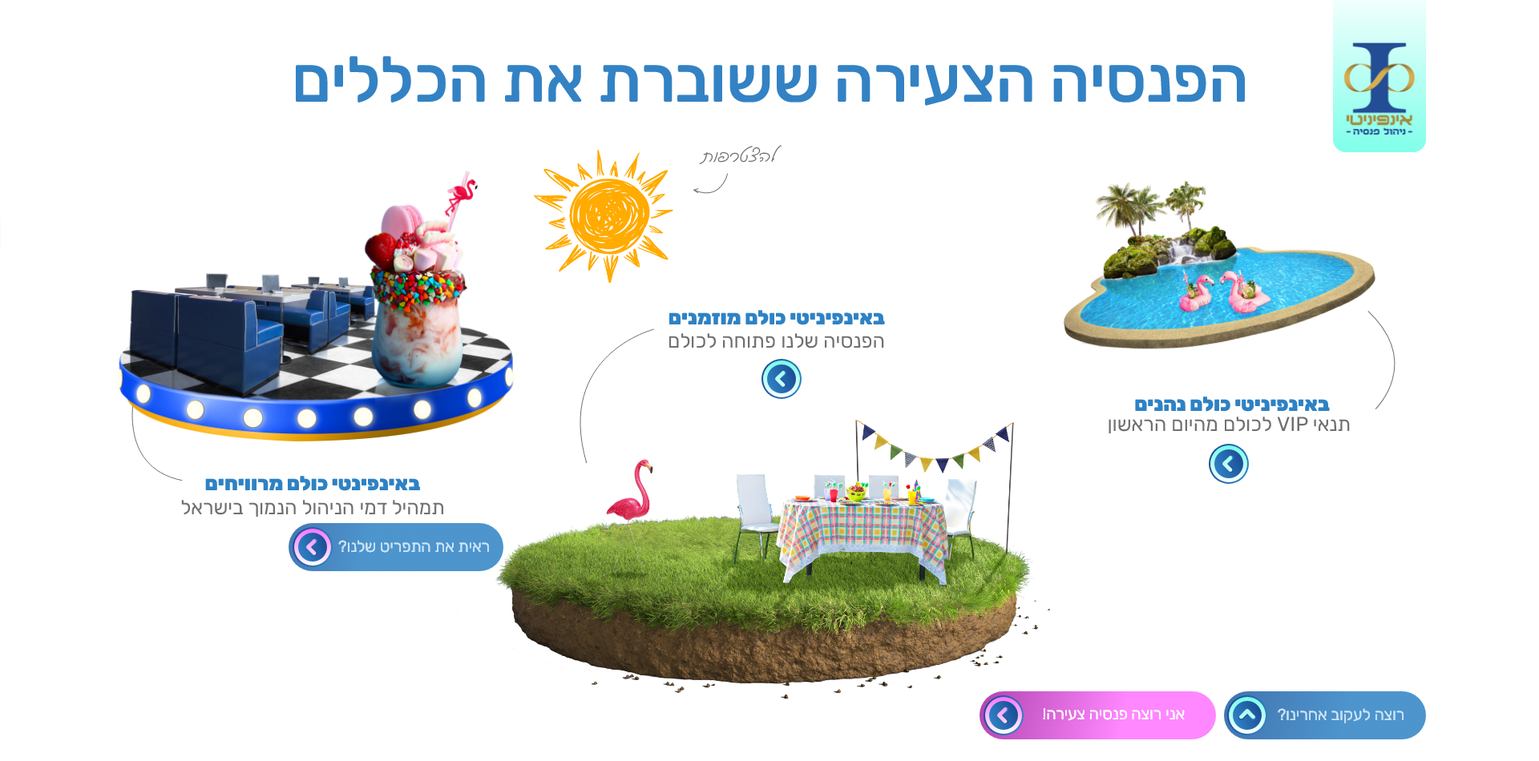
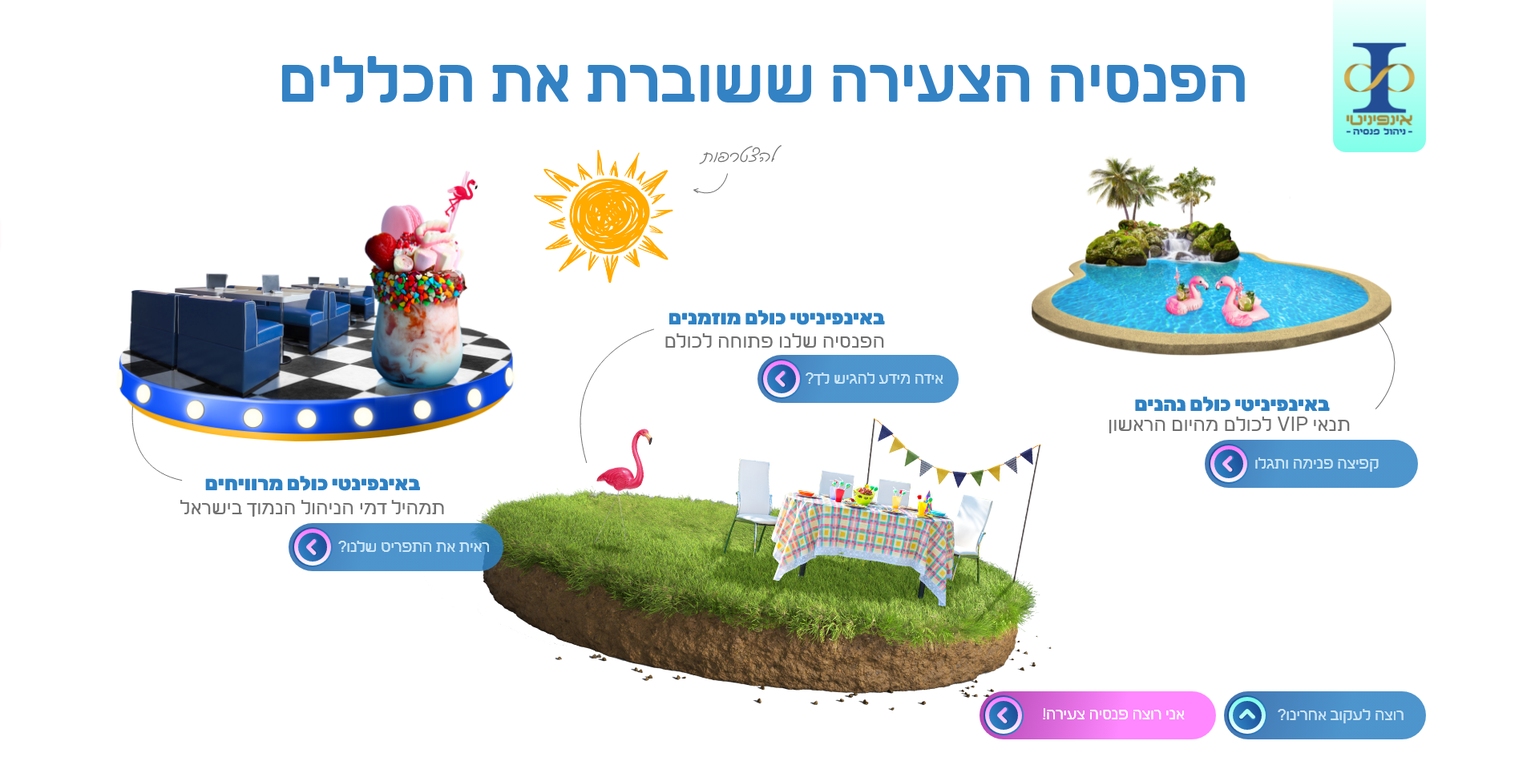
note

diff --git a/dist/css/main.min.css b/dist/css/main.min.css
@@ -1,1 +1,1 @@
-@font-face{font-family:FbBegale-Regular;font-weight:400;src:url(../fonts/fb/FbBegale-Regular.otf) format("opentype")}.anim{-webkit-animation-fill-mode:forwards!important;animation-fill-mode:forwards!important;opacity:0;-webkit-transition:all .4s ease;-o-transition:all .4s ease;transition:all .4s ease}.anim.single-project{-webkit-transition:all .4s ease;-o-transition:all .4s ease;transition:all .4s ease}.anim.single-project.done{opacity:1!important}.anim-stage>*{-webkit-animation-fill-mode:forwards!important;animation-fill-mode:forwards!important;opacity:0}@-webkit-keyframes zoom{0%{-webkit-transform:scale(1.1);transform:scale(1.1)}100%{-webkit-transform:scale(1);transform:scale(1);opacity:1;color:#00f5c9}}@keyframes zoom{0%{-webkit-transform:scale(1.1);transform:scale(1.1)}100%{-webkit-transform:scale(1);transform:scale(1);opacity:1;color:#00f5c9}}@-webkit-keyframes zoom-fade{from{-webkit-transform:scale(1.1);transform:scale(1.1)}to{-webkit-transform:scale(1);transform:scale(1);opacity:1}}@keyframes zoom-fade{from{-webkit-transform:scale(1.1);transform:scale(1.1)}to{-webkit-transform:scale(1);transform:scale(1);opacity:1}}@-webkit-keyframes line{0%{width:0;opacity:0}100%{width:510px;opacity:1}}@keyframes line{0%{width:0;opacity:0}100%{width:510px;opacity:1}}@-webkit-keyframes rotate{0%{-webkit-transform:rotate(0);transform:rotate(0)}70%{-webkit-transform:rotate(300deg);transform:rotate(300deg)}100%{-webkit-transform:rotate(360deg);transform:rotate(360deg);opacity:1}}@keyframes rotate{0%{-webkit-transform:rotate(0);transform:rotate(0)}70%{-webkit-transform:rotate(300deg);transform:rotate(300deg)}100%{-webkit-transform:rotate(360deg);transform:rotate(360deg);opacity:1}}@-webkit-keyframes slide{to{width:100%;opacity:1}}@keyframes slide{to{width:100%;opacity:1}}@-webkit-keyframes slide-height{from{opacity:1}to{height:100%;opacity:1}}@keyframes slide-height{from{opacity:1}to{height:100%;opacity:1}}@-webkit-keyframes fade{to{opacity:1}}@keyframes fade{to{opacity:1}}@-webkit-keyframes fade-left{from{-webkit-transform:translateX(-100%);transform:translateX(-100%)}to{opacity:1;-webkit-transform:translateX(0);transform:translateX(0)}}@keyframes fade-left{from{-webkit-transform:translateX(-100%);transform:translateX(-100%)}to{opacity:1;-webkit-transform:translateX(0);transform:translateX(0)}}@-webkit-keyframes fade-right{from{-webkit-transform:translateX(100%);transform:translateX(100%)}to{opacity:1;-webkit-transform:translateX(0);transform:translateX(0)}}@keyframes fade-right{from{-webkit-transform:translateX(100%);transform:translateX(100%)}to{opacity:1;-webkit-transform:translateX(0);transform:translateX(0)}}@-webkit-keyframes fade-up{from{-webkit-transform:translateY(10%);transform:translateY(10%)}to{opacity:1;-webkit-transform:translateY(0);transform:translateY(0)}}@keyframes fade-up{from{-webkit-transform:translateY(10%);transform:translateY(10%)}to{opacity:1;-webkit-transform:translateY(0);transform:translateY(0)}}.anim-stage>*{-webkit-transform-origin:0 0;-ms-transform-origin:0 0;transform-origin:0 0}@-webkit-keyframes anim-stage{from{opacity:0;-webkit-transform:translateY(60px);transform:translateY(60px)}to{opacity:1;-webkit-transform:translateY(0);transform:translateY(0)}}@keyframes anim-stage{from{opacity:0;-webkit-transform:translateY(60px);transform:translateY(60px)}to{opacity:1;-webkit-transform:translateY(0);transform:translateY(0)}}@-webkit-keyframes fade-up-2{from{-webkit-transform:translateY(20%);transform:translateY(20%)}to{opacity:1;-webkit-transform:translateY(0);transform:translateY(0)}}@keyframes fade-up-2{from{-webkit-transform:translateY(20%);transform:translateY(20%)}to{opacity:1;-webkit-transform:translateY(0);transform:translateY(0)}}@-webkit-keyframes fade-up-3{0%{-webkit-transform:translateY(100%);transform:translateY(100%);opacity:0}50%{opacity:0}100%{opacity:1;-webkit-transform:translateY(0);transform:translateY(0)}}@keyframes fade-up-3{0%{-webkit-transform:translateY(100%);transform:translateY(100%);opacity:0}50%{opacity:0}100%{opacity:1;-webkit-transform:translateY(0);transform:translateY(0)}}@-webkit-keyframes fade-down{from{-webkit-transform:translateY(-100%);transform:translateY(-100%)}to{opacity:1;-webkit-transform:translateY(0);transform:translateY(0)}}@keyframes fade-down{from{-webkit-transform:translateY(-100%);transform:translateY(-100%)}to{opacity:1;-webkit-transform:translateY(0);transform:translateY(0)}}@media screen and (max-width:991px){.anim-stage>*{opacity:1}@-webkit-keyframes line{0%{width:0;opacity:0}100%{width:247px;opacity:1}}@keyframes line{0%{width:0;opacity:0}100%{width:247px;opacity:1}}@-webkit-keyframes circleShadow{0%{width:11px;height:11px}100%{width:50px;height:50px}}@keyframes circleShadow{0%{width:11px;height:11px}100%{width:50px;height:50px}}}@media screen and (max-width:575px){@-webkit-keyframes line{0%{width:0;opacity:0}100%{width:150px;opacity:1}}@keyframes line{0%{width:0;opacity:0}100%{width:150px;opacity:1}}}body,html{margin:0;font-family:Rubik,sans-serif;min-width:320px;direction:rtl}body{max-width:100%}body.fixed{position:fixed}*{letter-spacing:0}input[type=search]::-webkit-search-cancel-button,input[type=search]::-webkit-search-decoration,input[type=search]::-webkit-search-results-button,input[type=search]::-webkit-search-results-decoration{display:none}img.lazyload,video.lazyload{opacity:0;visibility:hidden;-webkit-animation-fill-mode:forwards;animation-fill-mode:forwards}.desk-only{display:-webkit-box;display:-ms-flexbox;display:flex}.mob-only{display:none}.is-loaded,[data-loaded=true]{opacity:0;visibility:visible;-webkit-animation:faddingImgAnim .5s ease;animation:faddingImgAnim .5s ease}@-webkit-keyframes faddingImgAnim{0%{visibility:hidden;opacity:0;-webkit-filter:blur(10px);filter:blur(10px)}100%{visibility:visible;opacity:1;-webkit-filter:blur(0);filter:blur(0)}}@keyframes faddingImgAnim{0%{visibility:hidden;opacity:0;-webkit-filter:blur(10px);filter:blur(10px)}100%{visibility:visible;opacity:1;-webkit-filter:blur(0);filter:blur(0)}}.container-h{width:100%;max-width:1840px;padding:0 20px;margin:0 auto;-webkit-box-sizing:border-box;box-sizing:border-box}.container{width:100%;margin:0 auto;-webkit-box-sizing:border-box;box-sizing:border-box}*{letter-spacing:0;-webkit-box-sizing:border-box;box-sizing:border-box;text-decoration:none;outline:0}a,button{cursor:pointer}input[type=search]::-webkit-search-cancel-button,input[type=search]::-webkit-search-decoration,input[type=search]::-webkit-search-results-button,input[type=search]::-webkit-search-results-decoration{display:none}h1,h2,h3,h4,h5,h6,ol,p,ul{margin:0;padding:0;list-style:none}*{outline:0;-webkit-box-sizing:border-box;box-sizing:border-box;font-family:Rubik,sans-serif}body{display:-webkit-box;display:-ms-flexbox;display:flex;-webkit-box-orient:vertical;-webkit-box-direction:normal;-ms-flex-direction:column;flex-direction:column;min-height:100%;-webkit-box-flex:1;-ms-flex-positive:1;flex-grow:1;font-family:Rubik,sans-serif}body.no-scroll{overflow:hidden}.wrapper{width:100%}html{height:auto;min-height:100%;font-size:16px;display:-webkit-box;display:-ms-flexbox;display:flex}.wrapper,body{height:auto}main{-webkit-box-flex:1;-ms-flex-positive:1;flex-grow:1;display:-webkit-box;display:-ms-flexbox;display:flex;-webkit-box-orient:vertical;-webkit-box-direction:normal;-ms-flex-direction:column;flex-direction:column;z-index:3}h1,h2,h3,h4,h5,h6,ol,p,ul{margin:0;padding:0;list-style:none}.footer{-ms-flex-negative:0;flex-shrink:0;position:relative;width:100%;display:-webkit-box;display:-ms-flexbox;display:flex;-webkit-box-orient:vertical;-webkit-box-direction:normal;-ms-flex-direction:column;flex-direction:column;-webkit-box-align:start;-ms-flex-align:start;align-items:flex-start;-webkit-box-pack:start;-ms-flex-pack:start;justify-content:flex-start}::-webkit-scrollbar{width:.2604vw;height:.2604vw;background:#09244f;border-radius:3px}::-webkit-scrollbar-thumb{background:#47a2ff;border:none;-webkit-box-sizing:border-box;box-sizing:border-box;border-radius:3px}@media screen and (max-width:767px){::-webkit-scrollbar{width:4px;height:4px;background:#104e5a;border-radius:3px}::-webkit-scrollbar-thumb{background:#08d7f9;border:none;-webkit-box-sizing:border-box;box-sizing:border-box;border-radius:3px}}p{font-style:normal;font-weight:400;font-size:20px;line-height:23px;color:#000}.backblock{width:100%;height:100vh;overflow:hidden;position:fixed;top:0;left:0;z-index:2}.back-left{position:absolute;bottom:0;left:0;width:32.0594vw;height:100%}.back-left .bg{position:absolute;width:100%;height:100%;bottom:0;right:0;overflow:hidden;display:-webkit-box;display:-ms-flexbox;display:flex;-webkit-box-align:end;-ms-flex-align:end;align-items:flex-end;-webkit-box-pack:start;-ms-flex-pack:start;justify-content:flex-start}.back-left .bg img{width:100%;height:100%}.back-center{left:32.0313vw;bottom:0;width:35.7813vw;position:absolute;height:100%}.back-center .bg{position:absolute;bottom:0;left:0;width:100%;height:100%;display:-webkit-box;display:-ms-flexbox;display:flex;-webkit-box-align:end;-ms-flex-align:end;align-items:flex-end;-webkit-box-pack:center;-ms-flex-pack:center;justify-content:center}.back-center .bg img{width:100%;height:100%}.wardrobe{width:46.3542vw;height:53.8542vw;position:absolute;bottom:1.25vw;left:-5.2083vw;z-index:1}.wardrobe .img{width:100%;height:100%}.wardrobe .img img{width:100%;height:100%}.back-right{bottom:0;right:0;height:100%;width:32.4717vw;overflow:hidden;position:absolute}.back-right .bg{width:100%;height:100%;display:-webkit-box;display:-ms-flexbox;display:flex;-webkit-box-align:end;-ms-flex-align:end;align-items:flex-end;-webkit-box-pack:end;-ms-flex-pack:end;justify-content:flex-end}.back-right .bg img{width:100%;height:100%}.mirror{position:absolute;z-index:2;width:12.6042vw;height:13.0208vw;top:6.6667vw;right:1.7188vw}.mirror>img{width:100%;height:100%}.mirror-imgs{position:absolute;top:2.0833vw;right:2.1875vw;width:7.0313vw;height:8.3854vw;-webkit-mask-image:url(../img/mask-mirror.png);mask-image:url(../img/mask-mirror.png);-webkit-mask-size:100% 100%;mask-size:100% 100%;-webkit-mask-position:left top;mask-position:left top}.mirror-imgs .img{width:100%;height:100%;opacity:0;position:absolute;top:0;left:0;-webkit-transition:opacity .3s ease;-o-transition:opacity .3s ease;transition:opacity .3s ease}.mirror-imgs .img img{width:100%;height:100%}.mirror-imgs .img.act{opacity:1}.chair-left{width:37.8646vw;height:31.5104vw;bottom:2.0833vw;left:-4.9479vw;position:absolute}.chair-left .img{width:100%;height:100%}.chair-left .img img{width:100%;height:100%}.chair-right{width:37.8646vw;height:31.5104vw;bottom:1.5625vw;right:-4.3229vw;position:absolute}.chair-right .img{width:100%;height:100%}.chair-right .img img{width:100%;height:100%}.title-right{position:absolute;z-index:2;display:-webkit-box;display:-ms-flexbox;display:flex;-webkit-box-align:start;-ms-flex-align:start;align-items:flex-start;-webkit-box-pack:start;-ms-flex-pack:start;justify-content:flex-start;-webkit-box-orient:vertical;-webkit-box-direction:normal;-ms-flex-direction:column;flex-direction:column;top:7.5vw;right:7.2917vw}.title-right span{font-weight:500;font-size:1.3021vw;line-height:1.5104vw;letter-spacing:.02em;text-align:right;color:#fff;text-shadow:0 3px 6px rgba(0,0,0,.16)}.title-right p{font-weight:700;font-size:2.6042vw;letter-spacing:-.01em;line-height:2.8646vw;text-align:right;color:#fff;text-shadow:0 3px 6px rgba(0,0,0,.16);margin-bottom:4px}.plates-center{z-index:2;position:absolute;top:0;left:0;bottom:0;right:0}.plates-center ol{display:-webkit-box;display:-ms-flexbox;display:flex;width:100%;counter-reset:my-awesome-counter2}.plates-center ol li{right:0;width:100%;position:absolute;display:-webkit-box;display:-ms-flexbox;display:flex;-webkit-box-orient:vertical;-webkit-box-direction:normal;-ms-flex-direction:column;flex-direction:column;-webkit-box-align:start;-ms-flex-align:start;align-items:flex-start;-webkit-box-pack:start;-ms-flex-pack:start;justify-content:flex-start;counter-increment:my-awesome-counter2;cursor:pointer}.plates-center ol li p,.plates-center ol li span{-webkit-transition:color .3s ease;-o-transition:color .3s ease;transition:color .3s ease}.plates-center ol li:hover p,.plates-center ol li:hover span{color:#ff72ff;-webkit-transition:color .3s ease;-o-transition:color .3s ease;transition:color .3s ease}.plates-center ol li::before{content:counter(my-awesome-counter2);font-weight:900;font-size:2.6042vw;line-height:3.125vw;letter-spacing:-.01em;text-align:right;color:#1b4d96;text-shadow:0 3px 6px rgba(0,0,0,.16);position:absolute}.plates-center ol li p{font-weight:900;font-size:1.3021vw;line-height:1.5104vw;letter-spacing:.02em;text-align:right;color:#fff;text-shadow:0 3px 6px rgba(0,0,0,.16)}.plates-center ol li span{font-weight:400;font-size:1.3021vw;line-height:1.5104vw;letter-spacing:.03em;text-align:right;color:#fff;text-shadow:0 3px 6px rgba(0,0,0,.16)}.plates-center ol li:nth-child(1){bottom:37.28vw;padding-right:9.5271vw}.plates-center ol li:nth-child(1):before{right:5.7813vw;top:.3646vw}.plates-center ol li:nth-child(2){bottom:31.19vw;padding-left:10.6771vw}.plates-center ol li:nth-child(2)::before{left:6.25vw;top:.2083vw}.plates-center ol li:nth-child(2) span{letter-spacing:.02em}.plates-center ol li:nth-child(3){bottom:25.78vw;padding-right:17.1213vw}.plates-center ol li:nth-child(3)::before{top:.2083vw;right:13.2813vw}.plates-center ol li:nth-child(3) span{letter-spacing:.02em}.plates-center ol li:nth-child(even){-webkit-box-align:end;-ms-flex-align:end;align-items:flex-end}.plates-center ol li:nth-child(even) p,.plates-center ol li:nth-child(even) span{text-align:left}.part-back{-webkit-transition:opacity .3s linear;-o-transition:opacity .3s linear;transition:opacity .3s linear}.part-back.hide{opacity:0;pointer-events:none;-webkit-transition:opacity .3s linear;-o-transition:opacity .3s linear;transition:opacity .3s linear}.backblock{-webkit-transition:opacity .3s ease;-o-transition:opacity .3s ease;transition:opacity .3s ease}.backblock.hide{-webkit-transition:opacity .3s ease;-o-transition:opacity .3s ease;transition:opacity .3s ease;opacity:0;-webkit-transition-delay:.3s;-o-transition-delay:.3s;transition-delay:.3s;pointer-events:none}.big-menu{z-index:1;position:fixed;top:0;left:0;right:0;bottom:0}.dance-button{position:absolute;left:121px;top:160px}.dance-button .img{width:511px;height:414px;position:relative;-webkit-transform:rotate(9deg);-ms-transform:rotate(9deg);transform:rotate(9deg)}.dance-button .img>img{width:100%;height:100%}.dance-button .img .pic{position:absolute;top:63px;right:46px;width:152px;height:282px}.dance-button .img .pic img{width:100%;height:100%}.button-opener{display:-webkit-box;display:-ms-flexbox;display:flex;-webkit-box-align:center;-ms-flex-align:center;align-items:center;-webkit-box-pack:start;-ms-flex-pack:start;justify-content:flex-start;-webkit-box-orient:vertical;-webkit-box-direction:normal;-ms-flex-direction:column;flex-direction:column;position:relative}.button-opener p{font-weight:900;font-size:25px;line-height:29px;text-align:center;color:#2e82c4}.button-opener span{font-weight:400;font-size:25px;line-height:29px;text-align:center;color:#707070}.button-opener .btn{position:absolute;top:10px;left:50%}.btn-circle{width:50px;height:50px;border-radius:50%;background:-o-linear-gradient(39deg,#2e82c4 0,#1b4d96 100%);background:linear-gradient(51deg,#2e82c4 0,#1b4d96 100%);position:relative}.btn-circle::after{width:36px;height:36px;position:absolute;top:50%;left:50%;-webkit-transform:translate(-50%,-50%);-ms-transform:translate(-50%,-50%);transform:translate(-50%,-50%);display:inline-block;content:'';z-index:2;background:url(../img/arr-l.png) no-repeat center/100%}.btn-circle::before{top:4px;left:4px;right:4px;bottom:4px;border-radius:50%;display:inline-block;content:'';position:absolute;z-index:1;background:-webkit-gradient(linear,left top,left bottom,from(#72ffe7),to(#fff));background:-o-linear-gradient(top,#72ffe7 0,#fff 100%);background:linear-gradient(180deg,#72ffe7 0,#fff 100%);-webkit-transform:rotate(0);-ms-transform:rotate(0);transform:rotate(0);-webkit-transition:background-color .2s linear,-webkit-transform .2s linear;transition:background-color .2s linear,-webkit-transform .2s linear;-o-transition:transform .2s linear,background-color .2s linear;transition:transform .2s linear,background-color .2s linear;transition:transform .2s linear,background-color .2s linear,-webkit-transform .2s linear}.btn-main:hover .btn-circle::before{background:-webkit-gradient(linear,left top,left bottom,from(#ff72ff),to(#fff));background:-o-linear-gradient(top,#ff72ff 0,#fff 100%);background:linear-gradient(180deg,#ff72ff 0,#fff 100%);-webkit-transform:rotate(360deg);-ms-transform:rotate(360deg);transform:rotate(360deg);-webkit-transition:background-color .2s linear,-webkit-transform .2s linear;transition:background-color .2s linear,-webkit-transform .2s linear;-o-transition:transform .2s linear,background-color .2s linear;transition:transform .2s linear,background-color .2s linear;transition:transform .2s linear,background-color .2s linear,-webkit-transform .2s linear}.menu-btn:hover .btn-circle::before{background:-webkit-gradient(linear,left top,left bottom,from(#ff72ff),to(#fff));background:-o-linear-gradient(top,#ff72ff 0,#fff 100%);background:linear-gradient(180deg,#ff72ff 0,#fff 100%);-webkit-transform:rotate(360deg);-ms-transform:rotate(360deg);transform:rotate(360deg);-webkit-transition:background-color .2s linear,-webkit-transform .2s linear;transition:background-color .2s linear,-webkit-transform .2s linear;-o-transition:transform .2s linear,background-color .2s linear;transition:transform .2s linear,background-color .2s linear;transition:transform .2s linear,background-color .2s linear,-webkit-transform .2s linear}.menu-btn:hover .btn .txt{max-width:270px;opacity:1;-webkit-transition:max-width .3s ease-out,opacity .3s ease-out;-o-transition:max-width .3s ease-out,opacity .3s ease-out;transition:max-width .3s ease-out,opacity .3s ease-out}.btn .txt{display:-webkit-box;display:-ms-flexbox;display:flex;-webkit-box-align:center;-ms-flex-align:center;align-items:center;-webkit-box-pack:center;-ms-flex-pack:center;justify-content:center;position:absolute;left:-5px;top:-5px;bottom:-5px;padding:5px 17px 5px 62px;font-weight:400;font-size:20px;line-height:24px;letter-spacing:-.01em;text-align:left;color:#cce6f8;white-space:nowrap;overflow:hidden;border-radius:50px;opacity:0;-webkit-transition:max-width .3s ease-out,opacity .3s ease-out;-o-transition:max-width .3s ease-out,opacity .3s ease-out;transition:max-width .3s ease-out,opacity .3s ease-out}.btn .txt::before{position:absolute;z-index:-1;width:100%;height:100%;top:0;left:0;background:-webkit-gradient(linear,right top,left top,from(#2e82c4),color-stop(56.32%,#2e82c4),to(#1b4d96));background:-o-linear-gradient(right,#2e82c4 0,#2e82c4 56.32%,#1b4d96 100%);background:linear-gradient(to left,#2e82c4 0,#2e82c4 56.32%,#1b4d96 100%);display:inline-block;content:'';opacity:.84}
+@font-face{font-family:FbBegale-Regular;font-weight:400;src:url(../fonts/fb/FbBegale-Regular.otf) format("opentype")}.anim{-webkit-animation-fill-mode:forwards!important;animation-fill-mode:forwards!important;opacity:0;-webkit-transition:all .4s ease;-o-transition:all .4s ease;transition:all .4s ease}.anim.single-project{-webkit-transition:all .4s ease;-o-transition:all .4s ease;transition:all .4s ease}.anim.single-project.done{opacity:1!important}.anim-stage>*{-webkit-animation-fill-mode:forwards!important;animation-fill-mode:forwards!important;opacity:0}@-webkit-keyframes zoom{0%{-webkit-transform:scale(1.1);transform:scale(1.1)}100%{-webkit-transform:scale(1);transform:scale(1);opacity:1;color:#00f5c9}}@keyframes zoom{0%{-webkit-transform:scale(1.1);transform:scale(1.1)}100%{-webkit-transform:scale(1);transform:scale(1);opacity:1;color:#00f5c9}}@-webkit-keyframes zoom-fade{from{-webkit-transform:scale(1.1);transform:scale(1.1)}to{-webkit-transform:scale(1);transform:scale(1);opacity:1}}@keyframes zoom-fade{from{-webkit-transform:scale(1.1);transform:scale(1.1)}to{-webkit-transform:scale(1);transform:scale(1);opacity:1}}@-webkit-keyframes line{0%{width:0;opacity:0}100%{width:510px;opacity:1}}@keyframes line{0%{width:0;opacity:0}100%{width:510px;opacity:1}}@-webkit-keyframes rotate{0%{-webkit-transform:rotate(0);transform:rotate(0)}70%{-webkit-transform:rotate(300deg);transform:rotate(300deg)}100%{-webkit-transform:rotate(360deg);transform:rotate(360deg);opacity:1}}@keyframes rotate{0%{-webkit-transform:rotate(0);transform:rotate(0)}70%{-webkit-transform:rotate(300deg);transform:rotate(300deg)}100%{-webkit-transform:rotate(360deg);transform:rotate(360deg);opacity:1}}@-webkit-keyframes slide{to{width:100%;opacity:1}}@keyframes slide{to{width:100%;opacity:1}}@-webkit-keyframes slide-height{from{opacity:1}to{height:100%;opacity:1}}@keyframes slide-height{from{opacity:1}to{height:100%;opacity:1}}@-webkit-keyframes fade{to{opacity:1}}@keyframes fade{to{opacity:1}}@-webkit-keyframes fade-left{from{-webkit-transform:translateX(-100%);transform:translateX(-100%)}to{opacity:1;-webkit-transform:translateX(0);transform:translateX(0)}}@keyframes fade-left{from{-webkit-transform:translateX(-100%);transform:translateX(-100%)}to{opacity:1;-webkit-transform:translateX(0);transform:translateX(0)}}@-webkit-keyframes fade-right{from{-webkit-transform:translateX(100%);transform:translateX(100%)}to{opacity:1;-webkit-transform:translateX(0);transform:translateX(0)}}@keyframes fade-right{from{-webkit-transform:translateX(100%);transform:translateX(100%)}to{opacity:1;-webkit-transform:translateX(0);transform:translateX(0)}}@-webkit-keyframes fade-up{from{-webkit-transform:translateY(10%);transform:translateY(10%)}to{opacity:1;-webkit-transform:translateY(0);transform:translateY(0)}}@keyframes fade-up{from{-webkit-transform:translateY(10%);transform:translateY(10%)}to{opacity:1;-webkit-transform:translateY(0);transform:translateY(0)}}.anim-stage>*{-webkit-transform-origin:0 0;-ms-transform-origin:0 0;transform-origin:0 0}@-webkit-keyframes anim-stage{from{opacity:0;-webkit-transform:translateY(60px);transform:translateY(60px)}to{opacity:1;-webkit-transform:translateY(0);transform:translateY(0)}}@keyframes anim-stage{from{opacity:0;-webkit-transform:translateY(60px);transform:translateY(60px)}to{opacity:1;-webkit-transform:translateY(0);transform:translateY(0)}}@-webkit-keyframes fade-up-2{from{-webkit-transform:translateY(20%);transform:translateY(20%)}to{opacity:1;-webkit-transform:translateY(0);transform:translateY(0)}}@keyframes fade-up-2{from{-webkit-transform:translateY(20%);transform:translateY(20%)}to{opacity:1;-webkit-transform:translateY(0);transform:translateY(0)}}@-webkit-keyframes fade-up-3{0%{-webkit-transform:translateY(100%);transform:translateY(100%);opacity:0}50%{opacity:0}100%{opacity:1;-webkit-transform:translateY(0);transform:translateY(0)}}@keyframes fade-up-3{0%{-webkit-transform:translateY(100%);transform:translateY(100%);opacity:0}50%{opacity:0}100%{opacity:1;-webkit-transform:translateY(0);transform:translateY(0)}}@-webkit-keyframes fade-down{from{-webkit-transform:translateY(-100%);transform:translateY(-100%)}to{opacity:1;-webkit-transform:translateY(0);transform:translateY(0)}}@keyframes fade-down{from{-webkit-transform:translateY(-100%);transform:translateY(-100%)}to{opacity:1;-webkit-transform:translateY(0);transform:translateY(0)}}@media screen and (max-width:991px){.anim-stage>*{opacity:1}@-webkit-keyframes line{0%{width:0;opacity:0}100%{width:247px;opacity:1}}@keyframes line{0%{width:0;opacity:0}100%{width:247px;opacity:1}}@-webkit-keyframes circleShadow{0%{width:11px;height:11px}100%{width:50px;height:50px}}@keyframes circleShadow{0%{width:11px;height:11px}100%{width:50px;height:50px}}}@media screen and (max-width:575px){@-webkit-keyframes line{0%{width:0;opacity:0}100%{width:150px;opacity:1}}@keyframes line{0%{width:0;opacity:0}100%{width:150px;opacity:1}}}body,html{margin:0;font-family:Rubik,sans-serif;min-width:320px;direction:rtl}body{max-width:100%}body.fixed{position:fixed}*{letter-spacing:0}input[type=search]::-webkit-search-cancel-button,input[type=search]::-webkit-search-decoration,input[type=search]::-webkit-search-results-button,input[type=search]::-webkit-search-results-decoration{display:none}img.lazyload,video.lazyload{opacity:0;visibility:hidden;-webkit-animation-fill-mode:forwards;animation-fill-mode:forwards}.desk-only{display:-webkit-box;display:-ms-flexbox;display:flex}.mob-only{display:none}.is-loaded,[data-loaded=true]{opacity:0;visibility:visible;-webkit-animation:faddingImgAnim .5s ease;animation:faddingImgAnim .5s ease}@-webkit-keyframes faddingImgAnim{0%{visibility:hidden;opacity:0;-webkit-filter:blur(10px);filter:blur(10px)}100%{visibility:visible;opacity:1;-webkit-filter:blur(0);filter:blur(0)}}@keyframes faddingImgAnim{0%{visibility:hidden;opacity:0;-webkit-filter:blur(10px);filter:blur(10px)}100%{visibility:visible;opacity:1;-webkit-filter:blur(0);filter:blur(0)}}.container-h{width:100%;max-width:1840px;padding:0 20px;margin:0 auto;-webkit-box-sizing:border-box;box-sizing:border-box}.container{width:100%;margin:0 auto;-webkit-box-sizing:border-box;box-sizing:border-box}*{letter-spacing:0;-webkit-box-sizing:border-box;box-sizing:border-box;text-decoration:none;outline:0}a,button{cursor:pointer}input[type=search]::-webkit-search-cancel-button,input[type=search]::-webkit-search-decoration,input[type=search]::-webkit-search-results-button,input[type=search]::-webkit-search-results-decoration{display:none}h1,h2,h3,h4,h5,h6,ol,p,ul{margin:0;padding:0;list-style:none}*{outline:0;-webkit-box-sizing:border-box;box-sizing:border-box;font-family:Rubik,sans-serif}body{display:-webkit-box;display:-ms-flexbox;display:flex;-webkit-box-orient:vertical;-webkit-box-direction:normal;-ms-flex-direction:column;flex-direction:column;min-height:100%;-webkit-box-flex:1;-ms-flex-positive:1;flex-grow:1;font-family:Rubik,sans-serif}body.no-scroll{overflow:hidden}.wrapper{width:100%}html{height:auto;min-height:100%;font-size:16px;display:-webkit-box;display:-ms-flexbox;display:flex}.wrapper,body{height:auto}main{-webkit-box-flex:1;-ms-flex-positive:1;flex-grow:1;display:-webkit-box;display:-ms-flexbox;display:flex;-webkit-box-orient:vertical;-webkit-box-direction:normal;-ms-flex-direction:column;flex-direction:column;z-index:3}h1,h2,h3,h4,h5,h6,ol,p,ul{margin:0;padding:0;list-style:none}.footer{-ms-flex-negative:0;flex-shrink:0;position:relative;width:100%;display:-webkit-box;display:-ms-flexbox;display:flex;-webkit-box-orient:vertical;-webkit-box-direction:normal;-ms-flex-direction:column;flex-direction:column;-webkit-box-align:start;-ms-flex-align:start;align-items:flex-start;-webkit-box-pack:start;-ms-flex-pack:start;justify-content:flex-start}::-webkit-scrollbar{width:.2604vw;height:.2604vw;background:#09244f;border-radius:3px}::-webkit-scrollbar-thumb{background:#47a2ff;border:none;-webkit-box-sizing:border-box;box-sizing:border-box;border-radius:3px}@media screen and (max-width:767px){::-webkit-scrollbar{width:4px;height:4px;background:#104e5a;border-radius:3px}::-webkit-scrollbar-thumb{background:#08d7f9;border:none;-webkit-box-sizing:border-box;box-sizing:border-box;border-radius:3px}}p{font-style:normal;font-weight:400;font-size:20px;line-height:23px;color:#000}.backblock{width:100%;height:100vh;overflow:hidden;position:fixed;top:0;left:0;z-index:2}.back-left{position:absolute;bottom:0;left:0;width:32.0594vw;height:100%}.back-left .bg{position:absolute;width:100%;height:100%;bottom:0;right:0;overflow:hidden;display:-webkit-box;display:-ms-flexbox;display:flex;-webkit-box-align:end;-ms-flex-align:end;align-items:flex-end;-webkit-box-pack:start;-ms-flex-pack:start;justify-content:flex-start}.back-left .bg img{width:100%;height:100%}.back-center{left:32.0313vw;bottom:0;width:35.7813vw;position:absolute;height:100%}.back-center .bg{position:absolute;bottom:0;left:0;width:100%;height:100%;display:-webkit-box;display:-ms-flexbox;display:flex;-webkit-box-align:end;-ms-flex-align:end;align-items:flex-end;-webkit-box-pack:center;-ms-flex-pack:center;justify-content:center}.back-center .bg img{width:100%;height:100%}.wardrobe{width:46.3542vw;height:53.8542vw;position:absolute;bottom:1.25vw;left:-5.2083vw;z-index:1}.wardrobe .img{width:100%;height:100%}.wardrobe .img img{width:100%;height:100%}.back-right{bottom:0;right:0;height:100%;width:32.4717vw;overflow:hidden;position:absolute}.back-right .bg{width:100%;height:100%;display:-webkit-box;display:-ms-flexbox;display:flex;-webkit-box-align:end;-ms-flex-align:end;align-items:flex-end;-webkit-box-pack:end;-ms-flex-pack:end;justify-content:flex-end}.back-right .bg img{width:100%;height:100%}.mirror{position:absolute;z-index:2;width:12.6042vw;height:13.0208vw;top:6.6667vw;right:1.7188vw}.mirror>img{width:100%;height:100%}.mirror-imgs{position:absolute;top:2.0833vw;right:2.1875vw;width:7.0313vw;height:8.3854vw;-webkit-mask-image:url(../img/mask-mirror.png);mask-image:url(../img/mask-mirror.png);-webkit-mask-size:100% 100%;mask-size:100% 100%;-webkit-mask-position:left top;mask-position:left top}.mirror-imgs .img{width:100%;height:100%;opacity:0;position:absolute;top:0;left:0;-webkit-transition:opacity .3s ease;-o-transition:opacity .3s ease;transition:opacity .3s ease}.mirror-imgs .img img{width:100%;height:100%}.mirror-imgs .img.act{opacity:1}.chair-left{width:37.8646vw;height:31.5104vw;bottom:2.0833vw;left:-4.9479vw;position:absolute}.chair-left .img{width:100%;height:100%}.chair-left .img img{width:100%;height:100%}.chair-right{width:37.8646vw;height:31.5104vw;bottom:1.5625vw;right:-4.3229vw;position:absolute}.chair-right .img{width:100%;height:100%}.chair-right .img img{width:100%;height:100%}.title-right{position:absolute;z-index:2;display:-webkit-box;display:-ms-flexbox;display:flex;-webkit-box-align:start;-ms-flex-align:start;align-items:flex-start;-webkit-box-pack:start;-ms-flex-pack:start;justify-content:flex-start;-webkit-box-orient:vertical;-webkit-box-direction:normal;-ms-flex-direction:column;flex-direction:column;top:7.5vw;right:7.2917vw}.title-right span{font-weight:500;font-size:1.3021vw;line-height:1.5104vw;letter-spacing:.02em;text-align:right;color:#fff;text-shadow:0 3px 6px rgba(0,0,0,.16)}.title-right p{font-weight:700;font-size:2.6042vw;letter-spacing:-.01em;line-height:2.8646vw;text-align:right;color:#fff;text-shadow:0 3px 6px rgba(0,0,0,.16);margin-bottom:4px}.plates-center{z-index:2;position:absolute;top:0;left:0;bottom:0;right:0}.plates-center ol{display:-webkit-box;display:-ms-flexbox;display:flex;width:100%;counter-reset:my-awesome-counter2}.plates-center ol li{right:0;width:100%;position:absolute;display:-webkit-box;display:-ms-flexbox;display:flex;-webkit-box-orient:vertical;-webkit-box-direction:normal;-ms-flex-direction:column;flex-direction:column;-webkit-box-align:start;-ms-flex-align:start;align-items:flex-start;-webkit-box-pack:start;-ms-flex-pack:start;justify-content:flex-start;counter-increment:my-awesome-counter2;cursor:pointer}.plates-center ol li p,.plates-center ol li span{-webkit-transition:color .3s ease;-o-transition:color .3s ease;transition:color .3s ease}.plates-center ol li:hover p,.plates-center ol li:hover span{color:#ff72ff;-webkit-transition:color .3s ease;-o-transition:color .3s ease;transition:color .3s ease}.plates-center ol li::before{content:counter(my-awesome-counter2);font-weight:900;font-size:2.6042vw;line-height:3.125vw;letter-spacing:-.01em;text-align:right;color:#1b4d96;text-shadow:0 3px 6px rgba(0,0,0,.16);position:absolute}.plates-center ol li p{font-weight:900;font-size:1.3021vw;line-height:1.5104vw;letter-spacing:.02em;text-align:right;color:#fff;text-shadow:0 3px 6px rgba(0,0,0,.16)}.plates-center ol li span{font-weight:400;font-size:1.3021vw;line-height:1.5104vw;letter-spacing:.03em;text-align:right;color:#fff;text-shadow:0 3px 6px rgba(0,0,0,.16)}.plates-center ol li:nth-child(1){bottom:37.28vw;padding-right:9.5271vw}.plates-center ol li:nth-child(1):before{right:5.7813vw;top:.3646vw}.plates-center ol li:nth-child(2){bottom:31.19vw;padding-left:10.6771vw}.plates-center ol li:nth-child(2)::before{left:6.25vw;top:.2083vw}.plates-center ol li:nth-child(2) span{letter-spacing:.02em}.plates-center ol li:nth-child(3){bottom:25.78vw;padding-right:17.1213vw}.plates-center ol li:nth-child(3)::before{top:.2083vw;right:13.2813vw}.plates-center ol li:nth-child(3) span{letter-spacing:.02em}.plates-center ol li:nth-child(even){-webkit-box-align:end;-ms-flex-align:end;align-items:flex-end}.plates-center ol li:nth-child(even) p,.plates-center ol li:nth-child(even) span{text-align:left}.part-back{-webkit-transition:opacity .3s linear;-o-transition:opacity .3s linear;transition:opacity .3s linear}.part-back.hide{opacity:0;pointer-events:none;-webkit-transition:opacity .3s linear;-o-transition:opacity .3s linear;transition:opacity .3s linear}.backblock{-webkit-transition:opacity .3s ease;-o-transition:opacity .3s ease;transition:opacity .3s ease}.backblock.hide{-webkit-transition:opacity .3s ease;-o-transition:opacity .3s ease;transition:opacity .3s ease;opacity:0;-webkit-transition-delay:.3s;-o-transition-delay:.3s;transition-delay:.3s;pointer-events:none}.big-menu{z-index:1;position:fixed;top:0;left:0;right:0;bottom:0}.dance-button{position:absolute;left:6.3021vw;top:8.3333vw}.dance-button .button-opener{margin-top:.7813vw;margin-left:1.4063vw}.dance-button .button-opener::before{width:3.2292vw;height:5.8333vw;position:absolute;display:inline-block;content:'';background:url(../img/dance-arrow.png) no-repeat center/100%;left:.8854vw;top:-5.2083vw}.dance-button .img{width:26.6146vw;height:21.5625vw;position:relative;-webkit-transform:rotate(9deg);-ms-transform:rotate(9deg);transform:rotate(9deg);-webkit-transition:-webkit-transform .2s ease-out;transition:-webkit-transform .2s ease-out;-o-transition:transform .2s ease-out;transition:transform .2s ease-out;transition:transform .2s ease-out,-webkit-transform .2s ease-out}.dance-button .img>img{width:100%;height:100%}.dance-button .img .pic{position:absolute;top:15.4%;right:9%;width:30%;height:68%}.dance-button .img .pic img{width:100%;height:100%}.dance-button:hover .img{-webkit-transition:-webkit-transform .2s ease-out;transition:-webkit-transform .2s ease-out;-o-transition:transform .2s ease-out;transition:transform .2s ease-out;transition:transform .2s ease-out,-webkit-transform .2s ease-out;-webkit-transform:rotate(0) scale(1.125);-ms-transform:rotate(0) scale(1.125);transform:rotate(0) scale(1.125)}.button-opener{display:-webkit-box;display:-ms-flexbox;display:flex;-webkit-box-align:center;-ms-flex-align:center;align-items:center;-webkit-box-pack:start;-ms-flex-pack:start;justify-content:flex-start;-webkit-box-orient:vertical;-webkit-box-direction:normal;-ms-flex-direction:column;flex-direction:column;position:relative}.button-opener p{font-weight:900;font-size:1.3021vw;line-height:1.5104vw;text-align:center;color:#2e82c4}.button-opener span{font-weight:400;font-size:1.3021vw;line-height:1.5104vw;text-align:center;color:#707070}.button-opener .btn{position:absolute;top:3.5938vw;left:45%}.btn-circle{width:2.6042vw;height:2.6042vw;border-radius:50%;background:-o-linear-gradient(39deg,#2e82c4 0,#1b4d96 100%);background:linear-gradient(51deg,#2e82c4 0,#1b4d96 100%);position:relative}.btn-circle::after{width:1.875vw;height:1.875vw;position:absolute;top:50%;left:50%;-webkit-transform:translate(-50%,-50%);-ms-transform:translate(-50%,-50%);transform:translate(-50%,-50%);display:inline-block;content:'';z-index:2;background:url(../img/arr-l.png) no-repeat center/100%}.btn-circle::before{top:2px;left:2px;right:2px;bottom:2px;border-radius:50%;display:inline-block;content:'';position:absolute;z-index:1;background:-webkit-gradient(linear,left top,left bottom,from(#72ffe7),to(#fff));background:-o-linear-gradient(top,#72ffe7 0,#fff 100%);background:linear-gradient(180deg,#72ffe7 0,#fff 100%);-webkit-transform:rotate(0);-ms-transform:rotate(0);transform:rotate(0);-webkit-transition:background-color .2s linear,-webkit-transform .2s linear;transition:background-color .2s linear,-webkit-transform .2s linear;-o-transition:transform .2s linear,background-color .2s linear;transition:transform .2s linear,background-color .2s linear;transition:transform .2s linear,background-color .2s linear,-webkit-transform .2s linear}.btn-main:hover .btn-circle::before{background:-webkit-gradient(linear,left top,left bottom,from(#ff72ff),to(#fff));background:-o-linear-gradient(top,#ff72ff 0,#fff 100%);background:linear-gradient(180deg,#ff72ff 0,#fff 100%);-webkit-transform:rotate(360deg);-ms-transform:rotate(360deg);transform:rotate(360deg);-webkit-transition:background-color .2s linear,-webkit-transform .2s linear;transition:background-color .2s linear,-webkit-transform .2s linear;-o-transition:transform .2s linear,background-color .2s linear;transition:transform .2s linear,background-color .2s linear;transition:transform .2s linear,background-color .2s linear,-webkit-transform .2s linear}.menu-btn:hover .btn-circle::before{background:-webkit-gradient(linear,left top,left bottom,from(#ff72ff),to(#fff));background:-o-linear-gradient(top,#ff72ff 0,#fff 100%);background:linear-gradient(180deg,#ff72ff 0,#fff 100%);-webkit-transform:rotate(360deg);-ms-transform:rotate(360deg);transform:rotate(360deg);-webkit-transition:background-color .2s linear,-webkit-transform .2s linear;transition:background-color .2s linear,-webkit-transform .2s linear;-o-transition:transform .2s linear,background-color .2s linear;transition:transform .2s linear,background-color .2s linear;transition:transform .2s linear,background-color .2s linear,-webkit-transform .2s linear}.menu-btn:hover .btn .txt{max-width:270px;opacity:1;-webkit-transition:max-width .3s ease-out,opacity .3s ease-out;-o-transition:max-width .3s ease-out,opacity .3s ease-out;transition:max-width .3s ease-out,opacity .3s ease-out}.btn .txt{display:-webkit-box;display:-ms-flexbox;display:flex;-webkit-box-align:center;-ms-flex-align:center;align-items:center;-webkit-box-pack:center;-ms-flex-pack:center;justify-content:center;position:absolute;left:-.2604vw;top:-.2604vw;bottom:-.2604vw;padding:.2604vw .8854vw .2604vw 3.2292vw;font-weight:400;font-size:1.0417vw;line-height:1.25vw;letter-spacing:-.01em;text-align:left;color:#cce6f8;white-space:nowrap;overflow:hidden;border-radius:2.6042vw;opacity:0;-webkit-transition:max-width .3s ease-out,opacity .3s ease-out;-o-transition:max-width .3s ease-out,opacity .3s ease-out;transition:max-width .3s ease-out,opacity .3s ease-out}.btn .txt::before{position:absolute;z-index:-1;width:100%;height:100%;top:0;left:0;background:-webkit-gradient(linear,right top,left top,from(#2e82c4),color-stop(56.32%,#2e82c4),to(#1b4d96));background:-o-linear-gradient(right,#2e82c4 0,#2e82c4 56.32%,#1b4d96 100%);background:linear-gradient(to left,#2e82c4 0,#2e82c4 56.32%,#1b4d96 100%);display:inline-block;content:'';opacity:.84}.picnic-button{position:absolute;bottom:3.9063vw;left:29.0104vw;width:42.0313vw;height:24.5313vw}.picnic-button .img{position:relative;width:100%;height:100%;-webkit-transition:-webkit-transform .2s ease-out;transition:-webkit-transform .2s ease-out;-o-transition:transform .2s ease-out;transition:transform .2s ease-out;transition:transform .2s ease-out,-webkit-transform .2s ease-out}.picnic-button .img img{width:100%;height:100%}.picnic-button .button-opener{position:absolute;top:-1.1458vw;left:14.195vw}.picnic-button .button-opener .btn{top:3.4375vw;left:43%}.picnic-button .button-opener p{margin-right:-3px}.picnic-button .button-opener span{letter-spacing:.005em}.picnic-button .button-opener:before{width:4.7917vw;height:8.6979vw;display:inline-block;content:'';position:absolute;background:url(../img/picnic-arrow.png) no-repeat center/100%;left:-5.5292vw;top:1.5104vw}.picnic-button:hover .img{-webkit-transition:-webkit-transform .2s ease-out;transition:-webkit-transform .2s ease-out;-o-transition:transform .2s ease-out;transition:transform .2s ease-out;transition:transform .2s ease-out,-webkit-transform .2s ease-out;-webkit-transform:translate(0,-2.5%) scale(1.07) rotate(8deg);-ms-transform:translate(0,-2.5%) scale(1.07) rotate(8deg);transform:translate(0,-2.5%) scale(1.07) rotate(8deg)}

diff --git a/app/scss/_home.scss b/app/scss/_home.scss
@@ -333,29 +333,56 @@
 
 .dance-button {
   position: absolute;
-  left: 121px;
-  top: 160px;
+  left: 6.3021vw;
+  top: 8.3333vw;
+  .button-opener {
+    margin-top: 0.7813vw;
+    margin-left: 1.4063vw;
+
+    &::before {
+      width: 3.2292vw;
+      height: 5.8333vw;
+      position: absolute;
+      display: inline-block;
+      content: '';
+      background: url("../img/dance-arrow.png") no-repeat center / 100%;
+      left: 0.8854vw;
+      top: -5.2083vw;
+    }
+  }
 
   .img {
-    width: 511px;
-    height: 414px;
+    width: 26.6146vw;
+    height: 21.5625vw;
     position: relative;
     transform: rotate(9deg);
+    transition: transform 0.2s ease-out;
     > img {
       width: 100%;
       height: 100%;
     }
     .pic {
       position: absolute;
-      top: 63px;
-      right: 46px;
-      width: 152px;
-      height: 282px;
+      //top: 3.2813vw;
+      //right: 2.3958vw;
+      //width: 7.9167vw;
+      //height: 14.6875vw;
       //transform: rotate(9deg);
+
+      top: 15.4%;
+      right: 9%;
+      width: 30%;
+      height: 68%;
       img {
         width: 100%;
         height: 100%;
       }
+    }
+  }
+  &:hover {
+    .img {
+      transition: transform 0.2s ease-out;
+      transform: rotate(0deg) scale(1.125);
     }
   }
 }
@@ -367,34 +394,36 @@
   position: relative;
   p {
     font-weight: 900;
-    font-size: 25px;
-    line-height: 29px;
+    font-size: 1.3021vw;
+    line-height: 1.5104vw;
     text-align: center;
     color: #2e82c4;
   }
   span {
     font-weight: normal;
-    font-size: 25px;
-    line-height: 29px;
+    font-size: 1.3021vw;
+    line-height: 1.5104vw;
     text-align: center;
     color: #707070;
 
   }
+
   .btn {
     position: absolute;
-    top: 10px;
-    left: 50%;
+    top: 3.5938vw;
+    left: 45%;
+
   }
 }
 .btn-circle {
-  width: 50px;
-  height: 50px;
+  width: 2.6042vw;
+  height: 2.6042vw;
   border-radius: 50%;
   background: linear-gradient(51deg, #2e82c4 0%, #1b4d96 100%);
   position: relative;
   &::after {
-    width: 36px;
-    height: 36px;
+    width: 1.8750vw;
+    height: 1.8750vw;
     position: absolute;
     top: 50%;
     left: 50%;
@@ -405,10 +434,10 @@
     background: url("../img/arr-l.png") no-repeat center / 100%;
   }
   &::before {
-    top: 4px;
-    left: 4px;
-    right: 4px;
-    bottom: 4px;
+    top: 2px;
+    left: 2px;
+    right: 2px;
+    bottom: 2px;
     border-radius: 50%;
     display: inline-block;
     content: '';
@@ -432,6 +461,7 @@
 }
 .menu-btn {
   &:hover {
+
     .btn-circle {
       &::before {
         background: linear-gradient(180deg, #ff72ff 0%, #fff 100%);
@@ -456,10 +486,10 @@
     justify-content: center;
 
     position: absolute;
-    left: -5px;
-    top: -5px;
-    bottom: -5px;
-    padding: 5px 17px 5px 62px;
+    left: -0.2604vw;
+    top: -0.2604vw;
+    bottom: -0.2604vw;
+    padding: 0.2604vw 0.8854vw 0.2604vw 3.2292vw;
     &::before {
       position: absolute;
       z-index: -1;
@@ -474,17 +504,68 @@
     }
 
     font-weight: normal;
-    font-size: 20px;
-    line-height: 24px;
+    font-size: 1.0417vw;
+    line-height: 1.2500vw;
     letter-spacing: -0.01em;
     text-align: left;
     color: #cce6f8;
     white-space: nowrap;
 
     overflow: hidden;
-    border-radius: 50px;
+    border-radius: 2.6042vw;
     opacity: 0;
     transition: max-width 0.3s ease-out, opacity 0.3s ease-out;
 
+  }
+}
+
+.picnic-button {
+  position: absolute;
+  bottom: 3.9063vw;
+  left: 29.0104vw;
+  width: 42.0313vw;
+  height: 24.5313vw;
+  .img {
+    position: relative;
+    width: 100%;
+    height: 100%;
+    transition: transform 0.2s ease-out;
+    img {
+      width: 100%;
+      height: 100%;
+    }
+  }
+  .button-opener {
+    .btn {
+      top: 3.4375vw;
+      left: 43%;
+    }
+    p {
+      margin-right: -3px;
+    }
+    span {
+      letter-spacing: 0.005em;
+    }
+
+    &:before {
+      width: 4.7917vw;
+      height: 8.6979vw;
+      display: inline-block;
+      content: '';
+      position: absolute;
+      background: url("../img/picnic-arrow.png") no-repeat center / 100%;
+      left: -5.5292vw;
+      top: 1.5104vw;
+    }
+    position: absolute;
+    top: -1.1458vw;
+    left: 14.195vw;
+  }
+  &:hover {
+    .img {
+      transition: transform 0.2s ease-out;
+
+      transform: translate(0, -2.5%) scale(1.07) rotate(8deg);
+    }
   }
 }

diff --git a/app/home.html b/app/home.html
@@ -116,7 +116,24 @@
                 </div>
             </div>
         </div>
+        <div class="picnic-button menu-btn">
+            <div class="img">
+                <img src="./img/picnic-1.png" alt="">
+            </div>
+            <div class="button-opener">
+                <p>באינפיניטי כולם מוזמנים</p>
+                <span>הפנסיה שלנו פתוחה לכולם</span>
+                <div class="btn">
+                    <div class="btn-circle">
 
+                    </div>
+                    <div class="txt">
+                        איזה מידע להגיש לך?
+                    </div>
+
+                </div>
+            </div>
+        </div>
     </section>
 
 

diff --git a/dist/home.html b/dist/home.html
@@ -116,7 +116,24 @@
                 </div>
             </div>
         </div>
+        <div class="picnic-button menu-btn">
+            <div class="img">
+                <img src="./img/picnic-1.png" alt="">
+            </div>
+            <div class="button-opener">
+                <p>באינפיניטי כולם מוזמנים</p>
+                <span>הפנסיה שלנו פתוחה לכולם</span>
+                <div class="btn">
+                    <div class="btn-circle">
 
+                    </div>
+                    <div class="txt">
+                        איזה מידע להגיש לך?
+                    </div>
+
+                </div>
+            </div>
+        </div>
     </section>
 
 
